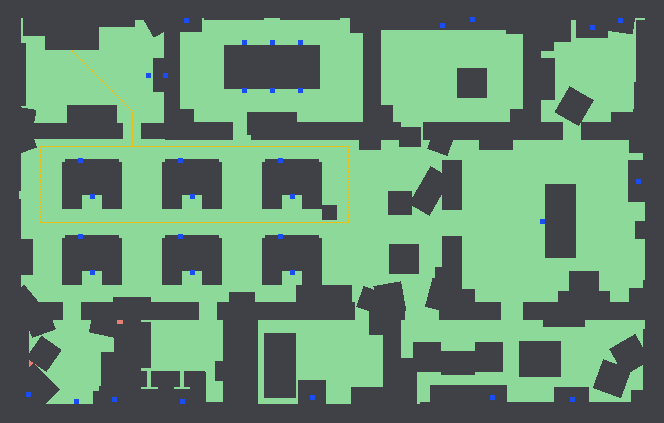
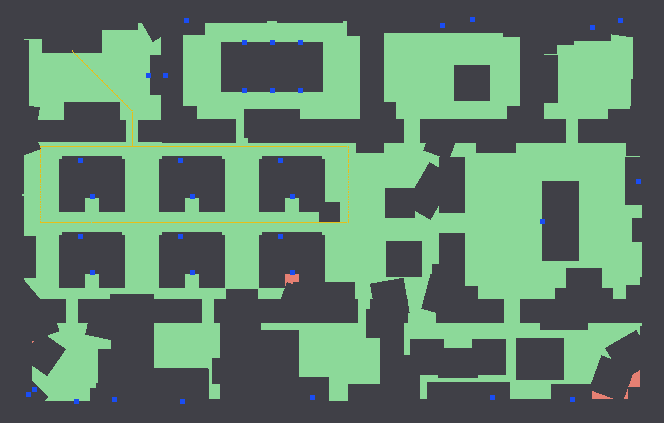
Map: fix NavMesh islands (kitchen, copy, server doorways blocked by props; closet door leaf in collider); st.cleaning stand-point out of the corner; stricter Unity-free nav check
Unity bake: NAV reachability 69 ok, 0 problems (was 61 ok, 8 problems).

diff --git a/Art/Scripts/map_layout.py b/Art/Scripts/map_layout.py
@@ -320,13 +320,12 @@ def office_room(L):
     for dx, dz, yaw in ((-0.75, 0, 90), (0.75, 0, 270), (0, -0.75, 0)):
         L.prop("MeetingChair", (3.6 + dx, 0, -2.4 + dz), yaw, c=False, room="room.office")
     L.prop("MobileWhiteboard", (4.9, 0, 1.0), 300, room="room.office")
-    L.prop("BigPlant", (1.9, 0, -4.45), 200, room="room.office")
+    L.prop("BigPlant", (-1.85, 0, -4.45), 200, room="room.office")
     L.prop("Sofa", (-0.4, 0, -4.48), FACE["N"], room="room.office", tint={"M_Sofa": "M_RailGreen"})
     L.prop("StandingTable", (3.4, 0, 0.4), 0, room="room.office")
     L.prop("SmallPlant", (3.4, 1.08, 0.4), 0, c=False, room="room.office")
     L.prop("Bookshelf", (-10.0, 0, -4.8), FACE["N"], room="room.office")
     L.prop("PrinterSmall", (-4.5, 0, -4.7), FACE["N"], room="room.office")
-    L.prop("Shredder", (3.9, 0, 3.7), FACE["S"], room="room.office")
     # Ceiling-free light sources: floor lamps in the aisles + room lights
     for x in (-12.0, -7.0, -2.0):
         L.light((x, 2.5, -0.4), "#FFE9C8", 1.6, 8.5, "room.office")
@@ -432,7 +431,6 @@ def copy_room(L):
     L.prop("RecycleBin", (15.6, 0, 4.5), FACE["W"], room="room.copy")
     L.prop("Shredder", (14.5, 0, 4.45), FACE["N"], room="room.copy")
     L.prop("SupplyCabinet", (15.72, 0, 5.6), FACE["W"], room="room.copy")
-    L.prop("PaperBoxStack", (12.0, 0, 5.1), 30, room="room.copy")
     L.prop("FileCabinet", (10.4, 0, 8.6), FACE["E"], room="room.copy")
     L.prop("FileCabinet", (10.4, 0, 9.15), FACE["E"], room="room.copy")
     L.light((13.0, 2.45, 7.2), "#F4F7FF", 1.6, 7.0, "room.copy")
@@ -468,7 +466,7 @@ def reception_room(L):
 
 
 def storage_room(L):
-    cl = L.st("st.cleaning")
+    cl = L.sl("slot.sprayrack")
     fb = L.st("st.fusebox")
     lf = L.sl("slot.lostfound")
     # Cleaning closet in the SW corner, diagonal (front faces the user, yaw from the contract).

diff --git a/Art/Scripts/map_preview.py b/Art/Scripts/map_preview.py
@@ -402,9 +402,11 @@ FOOTPRINT = {"BigPlant": 0.45, "FloorLamp": 0.5, "CoatRack": 0.45, "StandingTabl
              "UmbrellaStand": 0.9, "Planter": 0.9, "Ladder": 0.8}
 
 
-def nav_check(data, lib, agent=0.35, cell=0.05):
+def nav_check(data, lib, agent=0.5, cell=0.05):
     """Approximate the Unity NavMesh: rasterise colliders (props: local bounds box like AddBoundsCollider, walls: mesh
-    bounds) inflated by the agent radius, flood-fill from the open office and test every gameplay point. Also checks
+    bounds) inflated by the agent radius + 0.15 m margin (Unity voxelises at 0.1 m, so passages that are only a few cm
+    wide in this exact test are closed in the real bake), flood-fill from the open office and test every gameplay point
+    with the same search radii as ProjectBuilder.CheckReachability (stations 1.2 m, slots 1.6 m). Also checks
     that the manager's straight-line route legs do not cross furniture or walls."""
     import collections
     x0, z0, x1, z1 = -16.6, -10.6, 16.6, 10.6
@@ -439,11 +441,18 @@ def nav_check(data, lib, agent=0.35, cell=0.05):
             ob = ob.parent
         return m
 
+    def under_door(ob):
+        while ob is not None:
+            if ob.name.split(".")[0] == "Door":
+                return True
+            ob = ob.parent
+        return False
+
     def local_box(coll):
         lo = [1e9] * 3
         hi = [-1e9] * 3
         for ob in coll.all_objects:
-            if ob.type != "MESH":
+            if ob.type != "MESH" or under_door(ob):
                 continue
             for c in ob.bound_box:
                 w = world_matrix(ob) @ Vector(c)

diff --git a/Game/Assets/Game/Editor/ProjectBuilder.Scene.cs b/Game/Assets/Game/Editor/ProjectBuilder.Scene.cs
@@ -423,6 +423,8 @@ namespace BirimizKovulacak.EditorTools
             bool first = true;
             foreach (var r in rs)
             {
+                // Swung-open doors (cleaning closet, meeting sideboard) must not block the space in front of the prop.
+                if (UnderDoor(r.transform, go.transform)) continue;
                 var wb = r.bounds;
                 foreach (var c in Corners(wb))
                 {
@@ -431,11 +433,18 @@ namespace BirimizKovulacak.EditorTools
                     else b.Encapsulate(lc);
                 }
             }
+            if (first) return;
             var bc = go.AddComponent<BoxCollider>();
             var center = b.center;
             if (shrink < 0.9f) { center.x = 0; center.z = 0; }   // tall plants / lamps: collide with the pot or pole only
             bc.center = center;
             bc.size = Vector3.Scale(b.size, new Vector3(shrink, 1, shrink));
+        }
+
+        static bool UnderDoor(Transform t, Transform root)
+        {
+            for (; t != null && t != root; t = t.parent) if (t.name == "Door") return true;
+            return false;
         }
 
         static IEnumerable<Vector3> Corners(Bounds b)

diff --git a/Game/Assets/Game/Core/Contracts/OfficeLayout.cs b/Game/Assets/Game/Core/Contracts/OfficeLayout.cs
@@ -206,7 +206,7 @@ namespace BirimizKovulacak.Core
             l.Stations.Add(new StationDef { Id = EntityIds.Printer, Kind = StationKind.Printer, Position = new Vec3(13.0f, 0f, 9.2f), Yaw = 0f });
             l.Stations.Add(new StationDef { Id = EntityIds.Phone, Kind = StationKind.Phone, Position = new Vec3(10.5f, 0f, -0.5f), Yaw = 90f });
             l.Stations.Add(new StationDef { Id = EntityIds.DeliveryPoint, Kind = StationKind.DeliveryPoint, Position = new Vec3(-9.2f, 0f, 6.8f), Yaw = 90f });
-            l.Stations.Add(new StationDef { Id = EntityIds.CleaningCloset, Kind = StationKind.CleaningCloset, Position = new Vec3(-15.2f, 0f, -9.2f), Yaw = 225f });
+            l.Stations.Add(new StationDef { Id = EntityIds.CleaningCloset, Kind = StationKind.CleaningCloset, Position = new Vec3(-14.9f, 0f, -8.9f), Yaw = 225f });
             l.Stations.Add(new StationDef { Id = EntityIds.Router, Kind = StationKind.Router, Position = new Vec3(-1.0f, 0f, -9.3f), Yaw = 180f });
             l.Stations.Add(new StationDef { Id = EntityIds.FuseBox, Kind = StationKind.FuseBox, Position = new Vec3(-12.8f, 0f, -9.5f), Yaw = 180f });
 

diff --git a/docs/MAP.md b/docs/MAP.md
@@ -87,6 +87,7 @@ added/removed, nothing else touched):
 | `st.delivery` position / yaw | (−11, 0, 6.4) / 0 | (−9.2, 0, 6.8) / 90 | The manager walks in a straight line home (−13, 8) → (−10, 5); the inbox cabinet stood on that line (he walked through it every raid). It now stands against the manager office's east glass wall, reachable through the door. |
 | `slot.delivery` position / yaw | (−11, 0.95, 6.45) / 0 | (−8.32, 0.95, 6.8) / 90 | top of that cabinet (reports left, coffee right as before) |
 | `NameplateOffset` | (−0.6, 0.76, 0.35) | (−0.55, 1.16, 0.5) | The nameplate now sits on a rail on top of the cubicle back panel: readable from the aisle where the manager inspects (and by passers-by) and from the seat; on the desk top it would be hidden behind the panel. Bots' nameplate stand point (desk + (−0.6, 0, 0.95)) is 0.45 m away; from the seat it is 1.46 m (< 1.8). |
+| `st.cleaning` position | (−15.2, 0, −9.2) | (−14.9, 0, −8.9) | The stand-point was the closet's own corner spot (= the spray rack slot), 0.15 m inside the closet: no NavMesh within 1.2 m in the first Unity bake. It now sits 0.42 m out in front of the closet; `slot.sprayrack` stays on the shelf (the closet is placed from the slot). |
 
 Slot pose tweaks in `OfficeWorld.SlotPose` (mine): hiding spots spread their 2 items sideways (x ±0.13) so both lie
 in the cistern / planter / box top / cabinet; mail room items lie in a row on the mail counter.
@@ -162,8 +163,14 @@ MODEM) are TMP labels from `labels` in the JSON and in the builder.
   that `SamplePosition` could snap to.
 - After baking the builder logs `NAV reachability: N ok, M problems` for every desk seat, station, slot, meeting seat,
   manager stop and the manager's home (path from the office centre).
-- Unity-free check (`--navcheck`): colliders rasterised + inflated by 0.35 m, flood fill: **36/36 gameplay points
-  reachable, 0 problems; the manager's straight route legs (home → stops → home) cross no prop or wall.**
+- Unity-free check (`--navcheck`): colliders rasterised, inflated by 0.5 m (agent 0.35 + 0.15 voxel margin), door
+  leaves excluded like in Unity, flood fill: **36/36 gameplay points reachable, 0 problems; the manager's straight route
+  legs (home → stops → home) cross no prop or wall.** (The first version inflated by 0.35 m only and missed three
+  props standing in doorways; the 0.5 m version reproduces exactly the six failures of that bake.)
+- Unity bake (main, 2026-10-29): `Nav agent radius=0.35 height=1.3 climb=0.3`, **`NAV reachability: 69 ok, 0 problems`**.
+  Fixes after the first bake (8 problems): shredder removed from the kitchen doorway, paper-box stack removed from
+  inside the copy-room door, plant moved away from the server-room door, prop colliders ignore swung-open `Door`
+  leaves (cleaning closet, meeting sideboard), `st.cleaning` moved out of the corner (§4).
 
 ## 9. Requests for the lead
 
